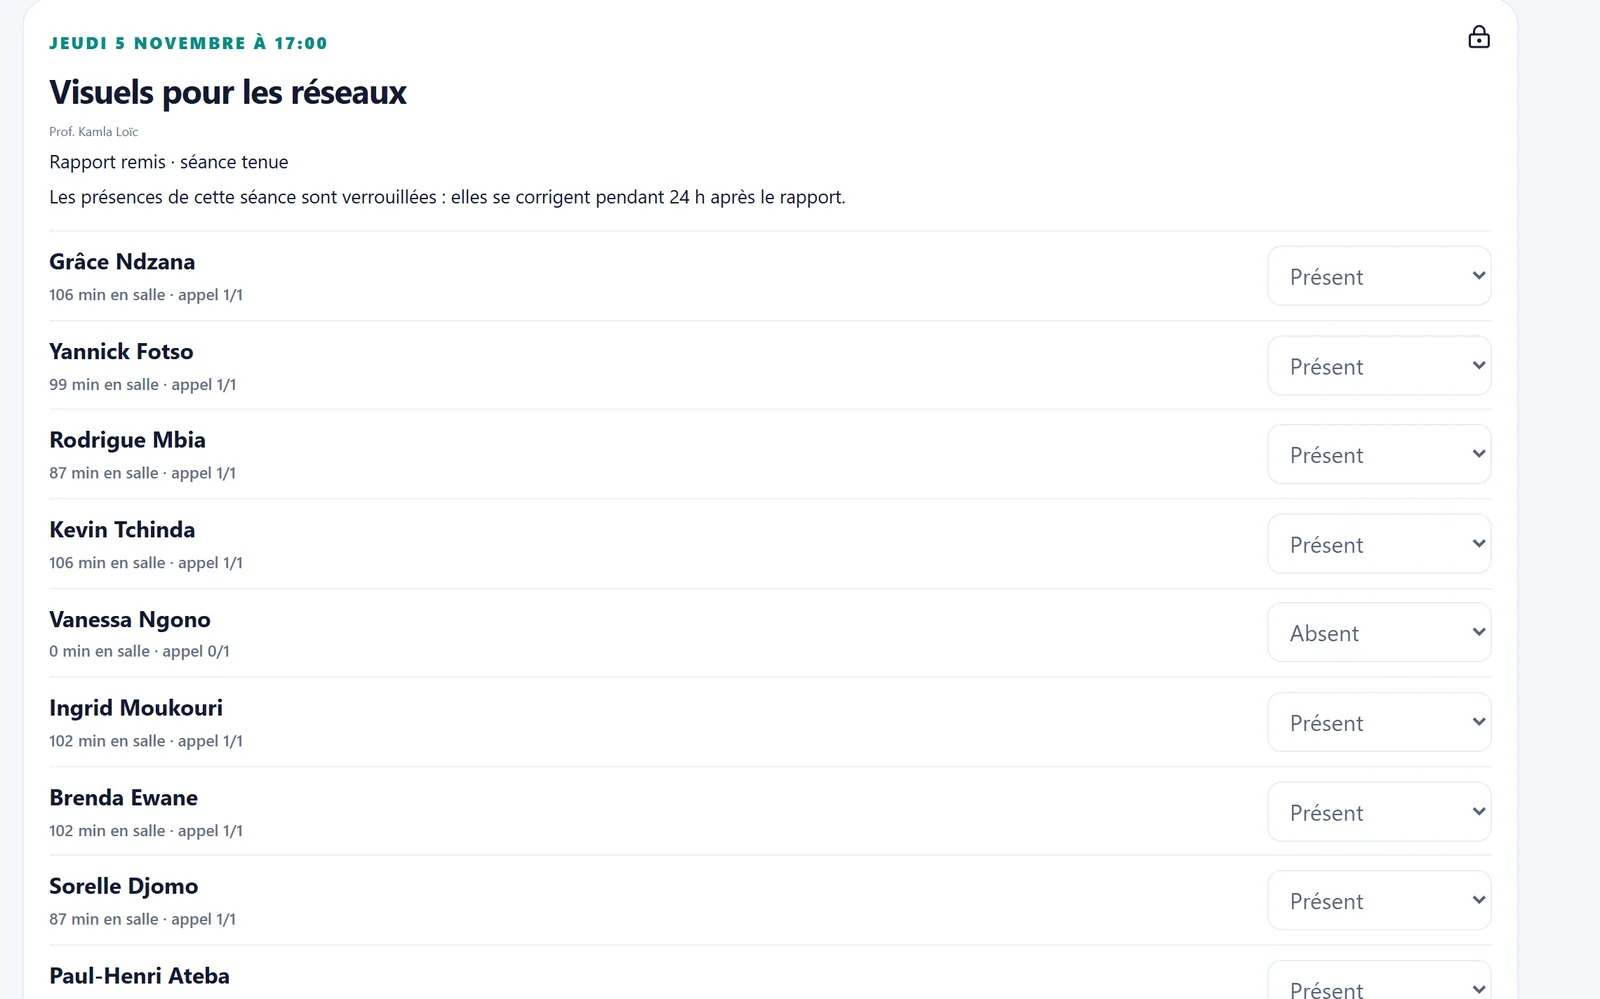
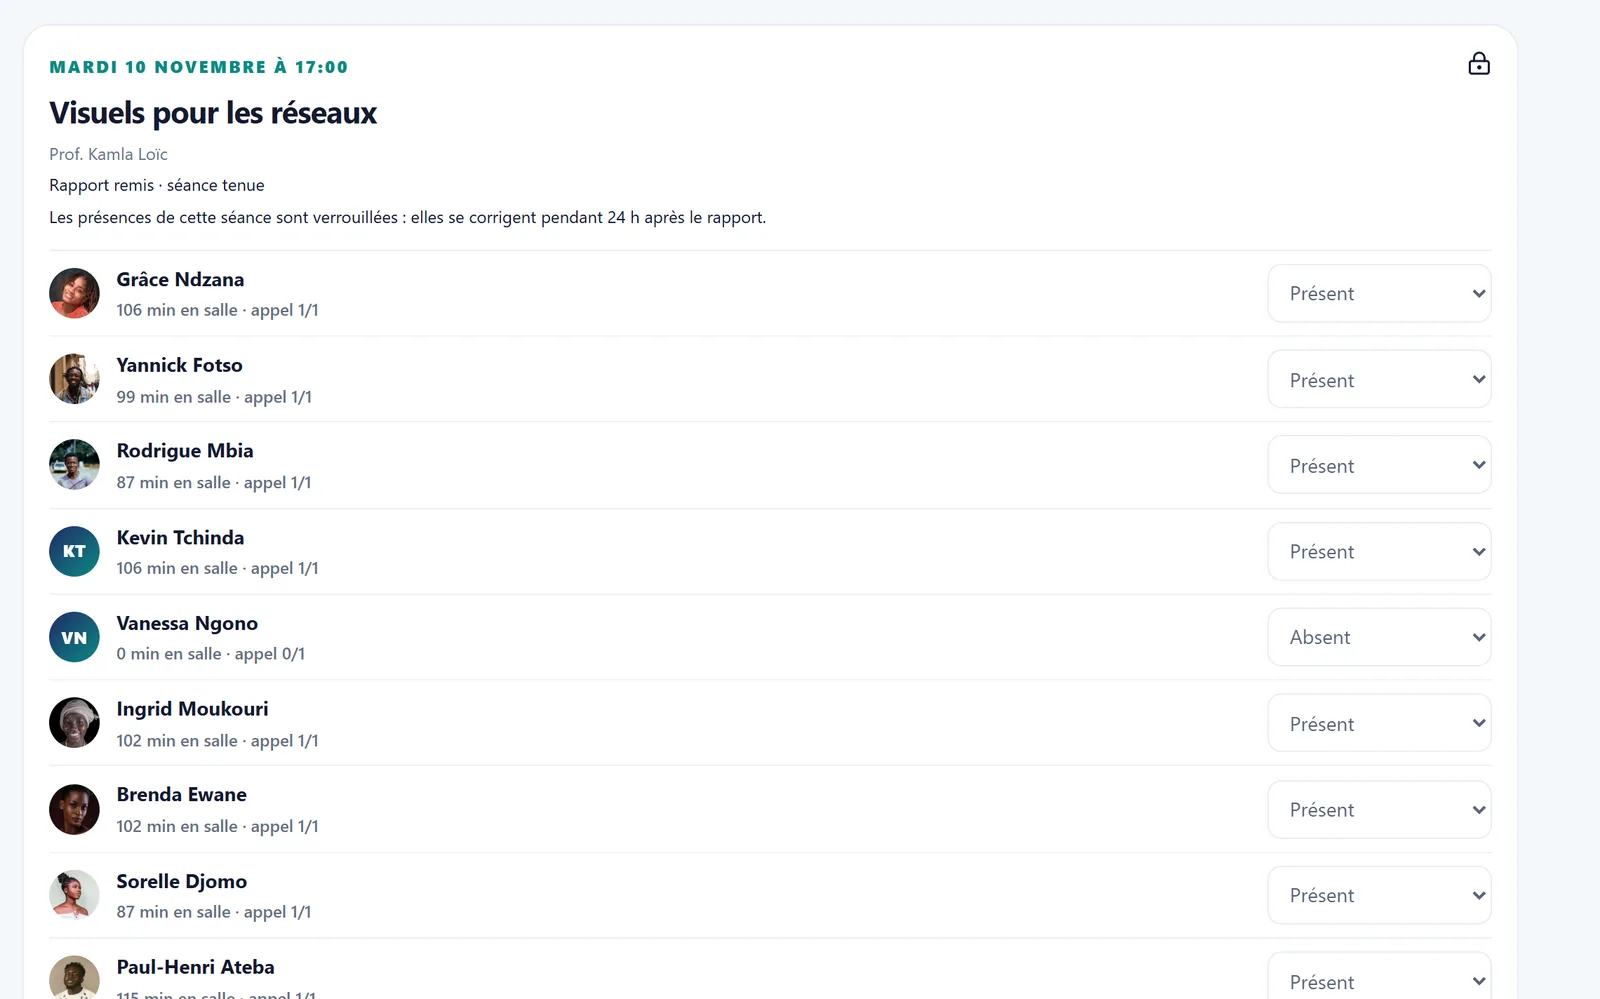
feat(landing): the live class over the attendance it produces
- "Des cours en direct" now shows a live class window over the attendance screenshot,
  which is retaken with the students' photos; on phones the window sits under it.

diff --git a/frontend/src/pages/LandingPage.tsx b/frontend/src/pages/LandingPage.tsx
@@ -37,6 +37,7 @@ const SHOTS = {
   catalogue: '/landing/site-catalogue.webp',
   siteCheckout: '/landing/site-formation-mobile.webp',
   attendance: '/landing/presences-live.webp',
+  liveClass: '/landing/cours-live.webp',
   management: '/landing/pilotage-direction.webp',
 }
 
@@ -174,7 +175,21 @@ const FEATURES: Feature[] = [
       'Temps passé dans la salle et appel en un clic',
       'Présences pré-remplies au rapport de séance',
     ],
-    visual: <Browser src={SHOTS.attendance} alt="Présences d’une séance live avec le temps passé dans la salle" address="studio-kora.academiecreatif.com/app/teacher/attendance" />,
+    visual: (
+      <div className="lp-live-stage">
+        <Browser src={SHOTS.attendance} alt="Présences d’une séance live avec le temps passé dans la salle" address="studio-kora.academiecreatif.com/app/teacher/attendance" />
+        <figure className="lp-live-window">
+          <img
+            src={SHOTS.liveClass}
+            alt="Cours en direct dans la salle de l’école : les étudiants en visio et l’appel en cours"
+            width={1200}
+            height={675}
+            loading="lazy"
+            decoding="async"
+          />
+        </figure>
+      </div>
+    ),
   },
   {
     id: 'suivi',

diff --git a/frontend/src/landing.css b/frontend/src/landing.css
@@ -366,3 +366,18 @@
   .lp-hero__notification { animation: none; }
   .lp-hero__notification:first-child { opacity: 1; visibility: visible; transform: none; }
 }
+
+/* "Des cours en direct": the live class, over the attendance it produces. */
+.lp-live-stage { position: relative; padding-bottom: 24%; }
+.lp-live-stage > .lp-browser { margin-right: 12%; }
+.lp-live-window {
+  position: absolute; right: 0; bottom: 0; width: 58%; margin: 0;
+  border-radius: 14px; overflow: hidden; background: #131735;
+  border: 4px solid #fff; box-shadow: 0 26px 60px rgba(19, 23, 53, .32);
+}
+.lp-live-window img { display: block; width: 100%; height: auto; }
+@media (max-width: 760px) {
+  .lp-live-stage { padding-bottom: 0; }
+  .lp-live-stage > .lp-browser { margin-right: 0; }
+  .lp-live-window { position: relative; width: 84%; margin: -14% 0 0 auto; }
+}
